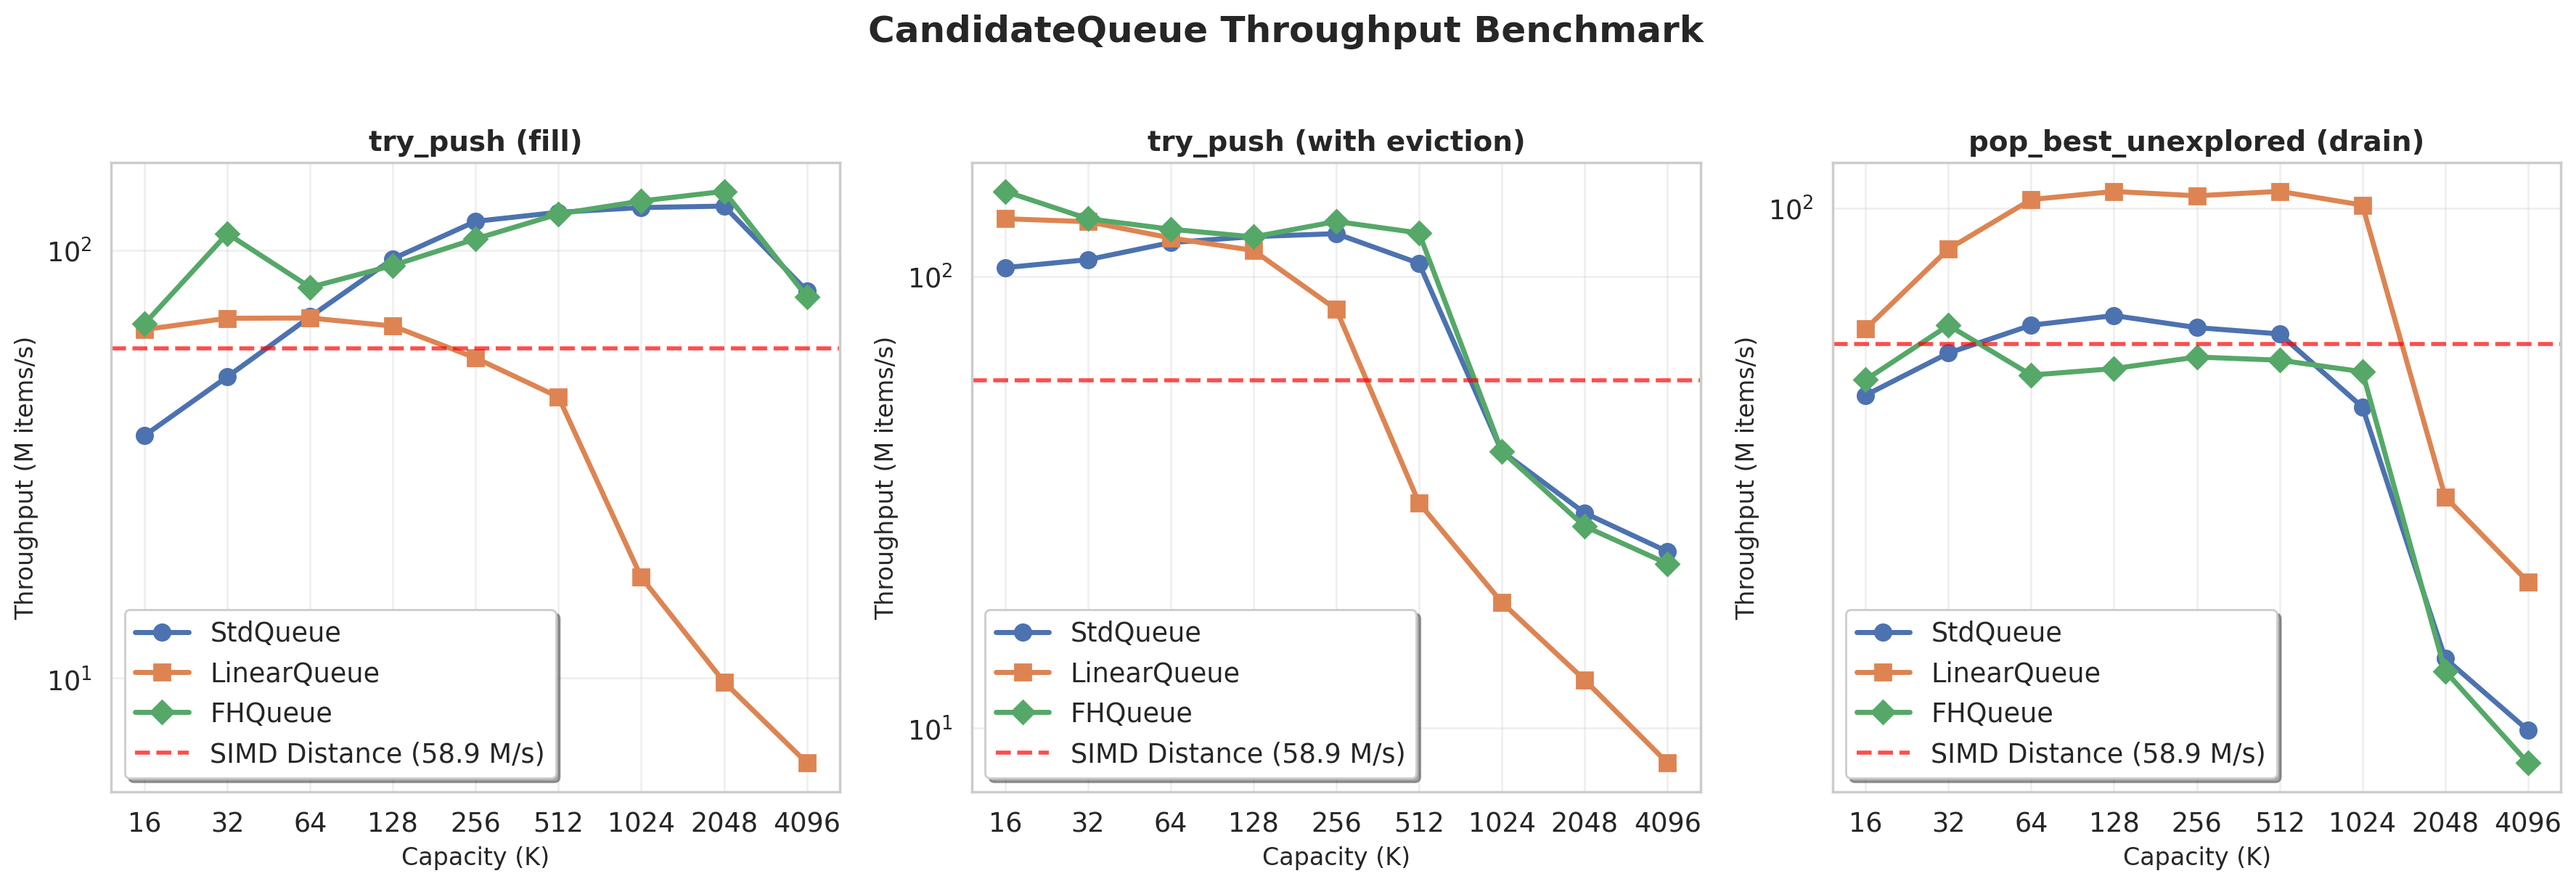
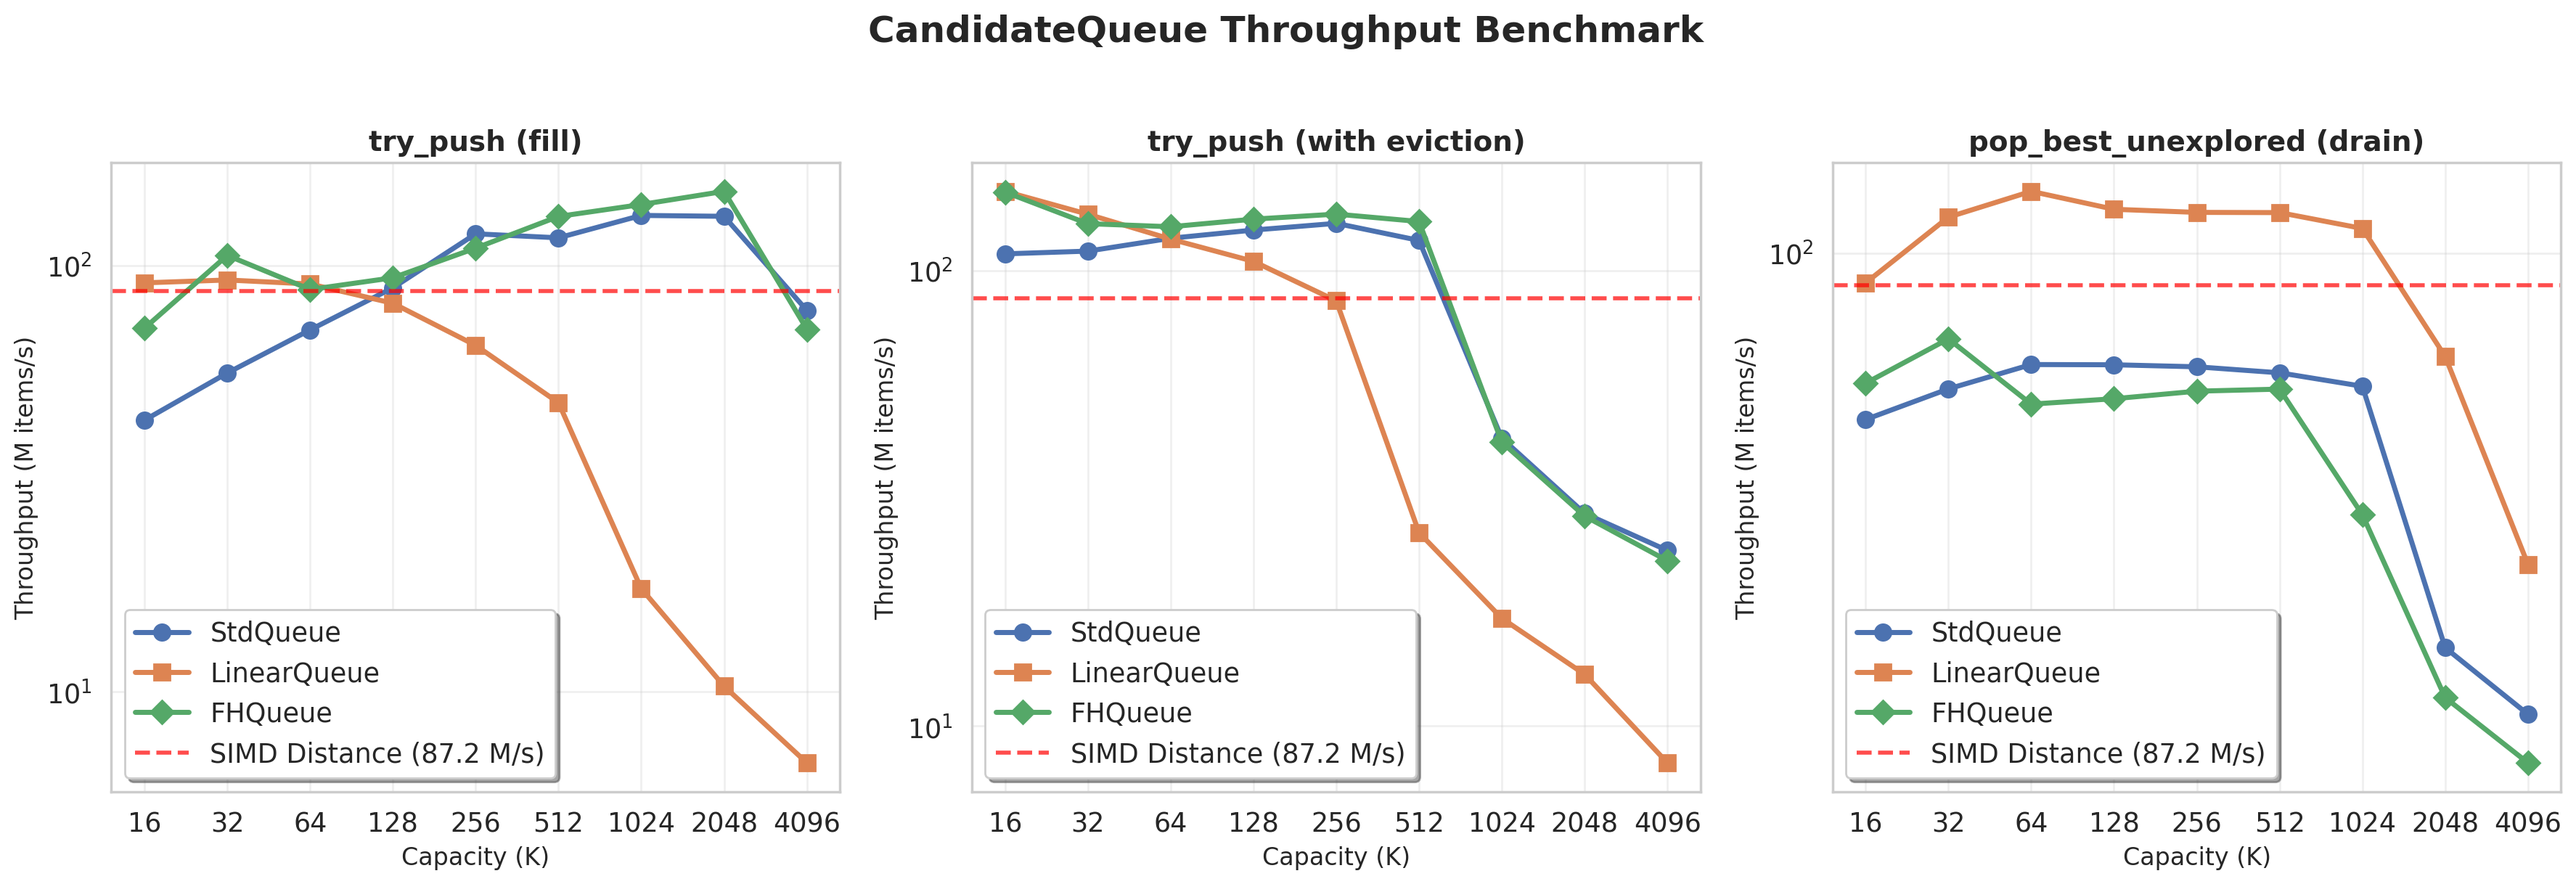
Unify candidate queue size parameter in hierarchical router. Replace separate ul/bl queue sizes with single parameter, use greedy search for upper layers.

diff --git a/include/artea/cpu/router/hierarchical_graph_router.hpp b/include/artea/cpu/router/hierarchical_graph_router.hpp
@@ -68,18 +68,16 @@ public:
         const dist_func_t& dist_func,
         const hierarchical_search_graph_t& hierarchical_search_graph,
         const uint32_t topk,
-        const vertex_num_t ul_candidate_queue_size,
-        const vertex_num_t bl_candidate_queue_size
+        const vertex_num_t candidate_queue_size
     ) : base_class_t(vecs_data, dist_func, topk),
         _hierarchical_search_graph(hierarchical_search_graph),
-        _ul_candidate_queue_size(ul_candidate_queue_size),
-        _bl_candidate_queue_size(bl_candidate_queue_size),
+        _candidate_queue_size(candidate_queue_size),
         _visited_table_pool(vecs_data.get_num_vecs())
     {
-        if (bl_candidate_queue_size < topk) {
+        if (candidate_queue_size < topk) {
             logger.error(fmt::format(
-                "bl_candidate_queue_size ({}) must be >= topk ({})",
-                bl_candidate_queue_size, topk
+                "candidate_queue_size ({}) must be >= topk ({})",
+                candidate_queue_size, topk
             ));
         }
     }
@@ -139,51 +137,76 @@ private:
         const layer_num_t num_layers = _hierarchical_search_graph.get_num_layers();
         const layer_id_t top_layer_id = num_layers - 1;
 
-        // Initialize candidate queue with entry point
-        vertex_id_t entry_point = _hierarchical_search_graph.get_entry_point();
-        candidate_queue_t candidate_queue(_ul_candidate_queue_size);
-
-        // Get the top layer vectors for distance computation
+        // Initialize with entry point
+        vertex_id_t current_nearest = _hierarchical_search_graph.get_entry_point();
         const auto& top_layer_vecs = _hierarchical_search_graph.get_hier_vecs_manager().get_layer_vecs(top_layer_id);
-        const distance_t entry_dist = this->_dist_func(query_vec, top_layer_vecs.get(entry_point));
-        candidate_queue.try_push(entry_point, entry_dist);
-        visited_table.set(entry_point);
+        distance_t current_dist = this->_dist_func(query_vec, top_layer_vecs.get(current_nearest));
 
-        // Search from top layer down to layer 1 (not including bottom layer 0)
+        // Greedy search from top layer down to layer 1 (not including bottom layer 0)
         for (layer_id_t layer_id = top_layer_id; layer_id > 0; --layer_id) {
-            // Search current layer
-            _beam_search_layer(
+            // Greedy search on current layer
+            _greedy_search_layer(
                 query_vec,
-                visited_table,
-                candidate_queue,
+                current_nearest,
+                current_dist,
                 layer_id
             );
 
-            // Convert results to next layer using inter-layer links
-            _convert_to_next_layer(candidate_queue, layer_id);
-            visited_table.clear();
+            // Convert to next layer using inter-layer links
+            const auto& inter_layer_links = _hierarchical_search_graph.get_inter_layer_links();
+            current_nearest = inter_layer_links.get_linked_vertex(layer_id, current_nearest);
         }
 
-        // Bottom layer search with larger queue size
-        candidate_queue_t bottom_queue(_bl_candidate_queue_size);
-
-        // Transfer candidates from upper layer queue to bottom queue
-        auto upper_results = candidate_queue.extract_results(candidate_queue.get_result_size());
-        for (const auto& [vid, dist] : upper_results) {
-            bottom_queue.try_push(vid, dist);
-            visited_table.set(vid);
-        }
+        // Bottom layer search with candidate queue
+        candidate_queue_t candidate_queue(_candidate_queue_size);
+        candidate_queue.try_push(current_nearest, current_dist);
+        visited_table.set(current_nearest);
 
         // Search bottom layer
         _beam_search_layer(
             query_vec,
             visited_table,
-            bottom_queue,
+            candidate_queue,
             0
         );
 
         // Extract top-k results
-        return bottom_queue.extract_result_ids(this->_topk);
+        return candidate_queue.extract_result_ids(this->_topk);
+    }
+
+    /**
+     * @brief Perform greedy search on a single upper layer.
+     * @param query_vec Pointer to the query vector data.
+     * @param current_nearest Reference to current nearest vertex (modified in-place).
+     * @param current_dist Reference to current nearest distance (modified in-place).
+     * @param layer_id Current layer ID.
+     */
+    auto _greedy_search_layer(
+        const vec_ele_t* query_vec,
+        vertex_id_t& current_nearest,
+        distance_t& current_dist,
+        const layer_id_t layer_id
+    ) const -> void {
+        const auto& layer_graph = _hierarchical_search_graph.get_layer_graph(layer_id);
+        const auto& layer_vecs = _hierarchical_search_graph.get_hier_vecs_manager().get_layer_vecs(layer_id);
+
+        bool improved = true;
+        while (improved) {
+            improved = false;
+            const auto& neighbors = layer_graph.fetch_nbrs(current_nearest);
+
+            for (const auto& nbr_id : neighbors) {
+                if (nbr_id == RouterTraitsT::invalid_vertex_id) { continue; }
+
+                const distance_t nbr_dist = this->_dist_func(query_vec, layer_vecs.get(nbr_id));
+
+                if (nbr_dist < current_dist) {
+                    current_nearest = nbr_id;
+                    current_dist = nbr_dist;
+                    improved = true;
+                }
+            }
+        }
     }
 
     /**
@@ -262,11 +285,8 @@ private:
     /** @brief Reference to the hierarchical search graph. */
     const hierarchical_search_graph_t& _hierarchical_search_graph;
 
-    /** @brief Candidate queue size for upper layers. */
-    vertex_num_t _ul_candidate_queue_size;
-
     /** @brief Candidate queue size for bottom layer. */
-    vertex_num_t _bl_candidate_queue_size;
+    vertex_num_t _candidate_queue_size;
 
     /** @brief Pool of thread-local visited bitmaps. */
     mutable visited_table_pool_t _visited_table_pool;

diff --git a/unit_tests/test_artea_graph.cpp b/unit_tests/test_artea_graph.cpp
@@ -61,8 +61,7 @@ struct TestConfig {
     EdgesBuilderConfigParams upper_edges_config;
 
     uint32_t topk;
-    uint32_t ul_candidate_queue_size;
-    uint32_t bl_candidate_queue_size;
+    uint32_t candidate_queue_size;
     uint32_t bl_extracted_nbr_size;
     uint32_t ul_extracted_nbr_size;
 
@@ -392,8 +391,7 @@ TEST_F(ArteaGraphConstructTest, QueryRecall) {
         dist_func,
         hierarchical_search_graph,
         g_config.topk,
-        g_config.ul_candidate_queue_size,
-        g_config.bl_candidate_queue_size
+        g_config.candidate_queue_size
     );
     router.initialize();
 
@@ -468,8 +466,8 @@ int main(int argc, char** argv) {
 
     // Router parameters
     program.add_argument("-k", "--topk").default_value(20u).scan<'u', uint32_t>();
-    program.add_argument("--ul-candidate-queue-size").default_value(8u).scan<'u', uint32_t>();
-    program.add_argument("--bl-candidate-queue-size").default_value(50u).scan<'u', uint32_t>();
+    program.add_argument("--candidate-queue-size").default_value(50u).scan<'u', uint32_t>()
+        .help("Bottom layer candidate queue size");
     program.add_argument("--bl-extracted-nbr-size").scan<'u', uint32_t>()
         .help("Bottom layer extracted neighbor size (defaults to bl-max-nbr-size)");
     program.add_argument("--ul-extracted-nbr-size").scan<'u', uint32_t>()
@@ -513,8 +511,7 @@ int main(int argc, char** argv) {
     g_config.upper_edges_config.num_inner_iters = program.get<uint32_t>("--ul-num-inner-iters");
 
     g_config.topk = program.get<uint32_t>("--topk");
-    g_config.ul_candidate_queue_size = program.get<uint32_t>("--ul-candidate-queue-size");
-    g_config.bl_candidate_queue_size = program.get<uint32_t>("--bl-candidate-queue-size");
+    g_config.candidate_queue_size = program.get<uint32_t>("--candidate-queue-size");
 
     g_config.bl_extracted_nbr_size = program.is_used("--bl-extracted-nbr-size")
         ? program.get<uint32_t>("--bl-extracted-nbr-size")
@@ -553,8 +550,7 @@ int main(int argc, char** argv) {
     std::cout << "Upper edges num inner iters: " << g_config.upper_edges_config.num_inner_iters << std::endl;
     std::cout << "\n--- Router Configuration ---" << std::endl;
     std::cout << "Top-k: " << g_config.topk << std::endl;
-    std::cout << "Upper layer candidate queue size: " << g_config.ul_candidate_queue_size << std::endl;
-    std::cout << "Bottom layer candidate queue size: " << g_config.bl_candidate_queue_size << std::endl;
+    std::cout << "Candidate queue size: " << g_config.candidate_queue_size << std::endl;
     std::cout << "Bottom layer extracted nbr size: " << g_config.bl_extracted_nbr_size << std::endl;
     std::cout << "Upper layer extracted nbr size: " << g_config.ul_extracted_nbr_size << std::endl;
     std::cout << "Verbose: " << (g_config.verbose ? "true" : "false") << std::endl;

diff --git a/apps/artea_graph_ann.cpp b/apps/artea_graph_ann.cpp
@@ -122,12 +122,7 @@ int main(int argc, char** argv) {
         .scan<'u', uint32_t>()
         .help("Top-k results to return");
 
-    program.add_argument("--ul-candidate-queue-size")
-        .default_value(8u)
-        .scan<'u', uint32_t>()
-        .help("Upper layer candidate queue size");
-
-    program.add_argument("--bl-candidate-queue-size")
+    program.add_argument("--candidate-queue-size")
         .default_value(50u)
         .scan<'u', uint32_t>()
         .help("Bottom layer candidate queue size");
@@ -151,8 +146,7 @@ int main(int argc, char** argv) {
     std::string config_path = program.get<std::string>("--config");
     std::string dataset_name = program.get<std::string>("--dataset");
     uint32_t topk = program.get<uint32_t>("--topk");
-    uint32_t ul_candidate_queue_size = program.get<uint32_t>("--ul-candidate-queue-size");
-    uint32_t bl_candidate_queue_size = program.get<uint32_t>("--bl-candidate-queue-size");
+    uint32_t candidate_queue_size = program.get<uint32_t>("--candidate-queue-size");
 
     // Determine index path
     std::string index_path;
@@ -212,13 +206,12 @@ int main(int argc, char** argv) {
         dist_func,
         hierarchical_search_graph,
         topk,
-        ul_candidate_queue_size,
-        bl_candidate_queue_size
+        candidate_queue_size
     );
     router.initialize();
 
-    logger.info(fmt::format("Router initialized: topk={}, ul_queue={}, bl_queue={}",
-        topk, ul_candidate_queue_size, bl_candidate_queue_size));
+    logger.info(fmt::format("Router initialized: topk={}, candidate_queue_size={}",
+        topk, candidate_queue_size));
 
     // Warm-up run
     logger.info("Running warm-up...");
@@ -256,8 +249,7 @@ int main(int argc, char** argv) {
     std::cout << fmt::format("Dataset: {}", dataset_name) << std::endl;
     std::cout << fmt::format("Index: {}", index_path) << std::endl;
     std::cout << fmt::format("Top-k: {}", topk) << std::endl;
-    std::cout << fmt::format("Upper layer candidate queue size: {}", ul_candidate_queue_size) << std::endl;
-    std::cout << fmt::format("Bottom layer candidate queue size: {}", bl_candidate_queue_size) << std::endl;
+    std::cout << fmt::format("Candidate queue size: {}", candidate_queue_size) << std::endl;
     std::cout << "\n--- Individual Runs ---" << std::endl;
     for (size_t i = 0; i < results.size(); ++i) {
         std::cout << fmt::format("Run {}: Throughput = {:.2f} QPS, Recall@{} = {:.4f}",
